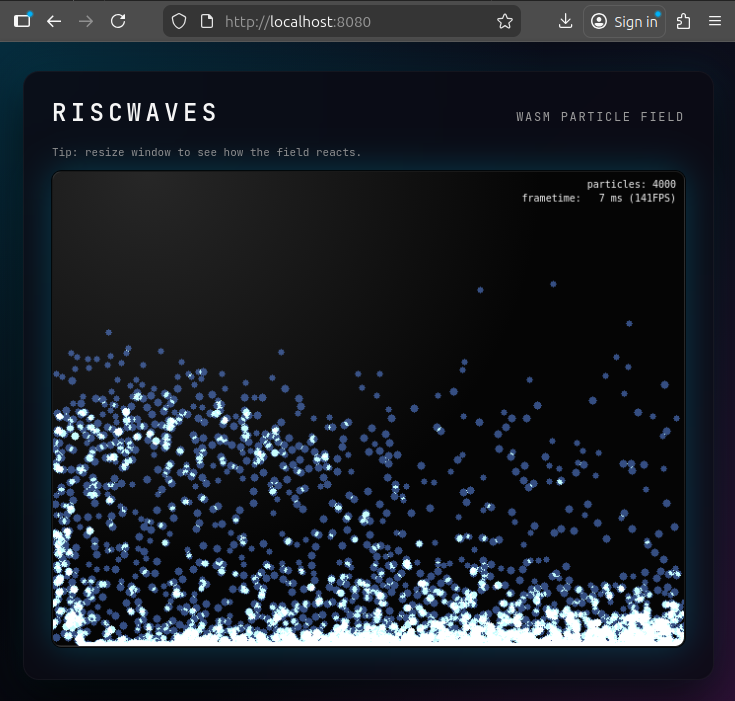
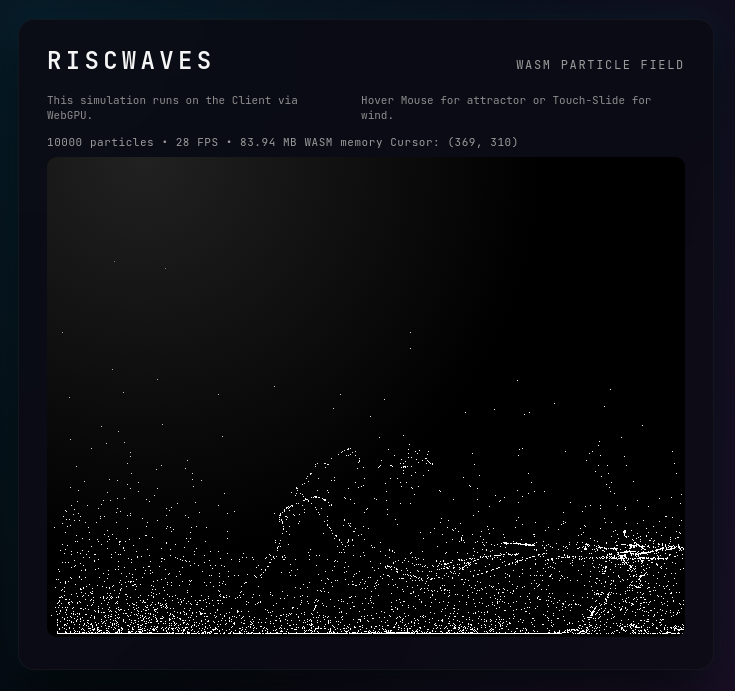
small updates

diff --git a/www/index.html b/www/index.html
@@ -173,6 +173,7 @@
         <section class="status-row">
             <div id="loading">Loading WASM module…</div>
             <div class="hint">This simulation runs on the Client via WebGPU.</div>
+            <div class="hint">Hover Mouse for attractor or Touch-Slide for wind.</div>
         </section>
 
         <div id="stats" style="display: none;">

diff --git a/src/world.rs b/src/world.rs
@@ -112,8 +112,9 @@ impl ParticleSystem {
                 self.position[i][1] = self.position[i][1].clamp(0.0, (HEIGHT - self.radius as u32) as f32);
             }
             
+            //  repell at bottom left corner
             if self.position[i][0] < 10.0 && self.position[i][1] >= 0.95 * HEIGHT as f32 {
-                self.velocity[i][1] += -5.0 / self.mass[i];
+                self.velocity[i] += Vec2::new(2.0,-8.0) / self.mass[i];
             }
             if self.attractor.is_some() {
                 let attractor = self.attractor.as_ref().unwrap();
